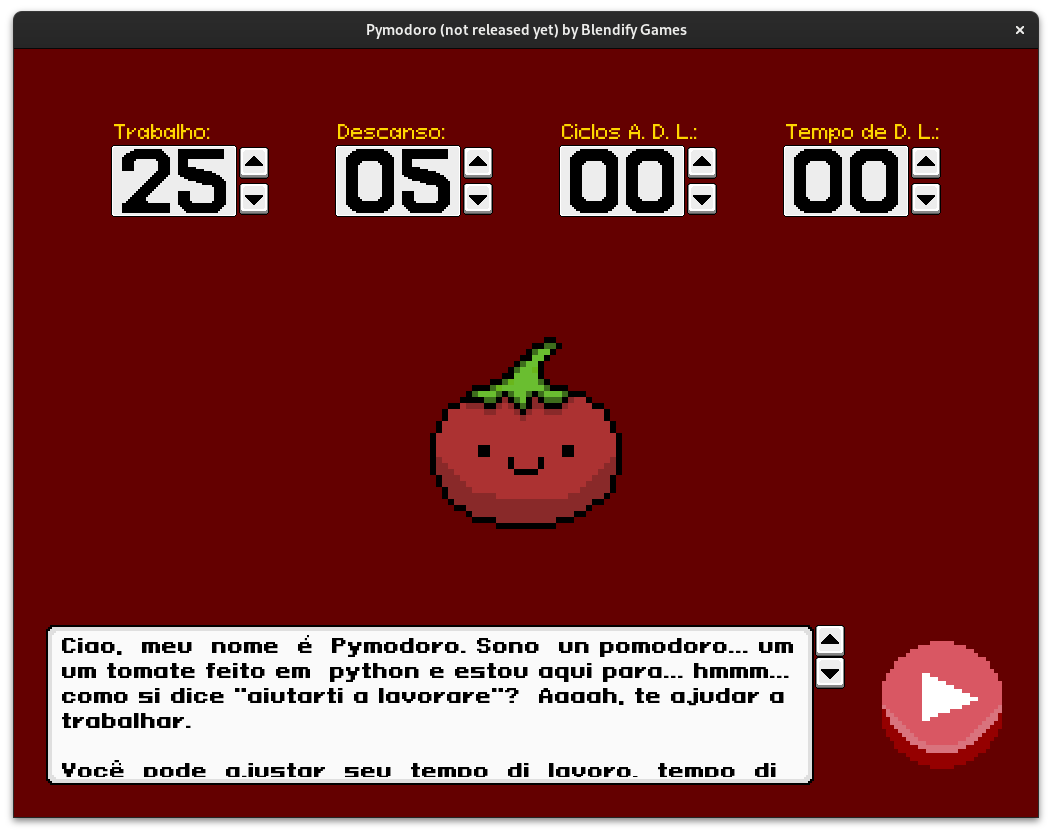
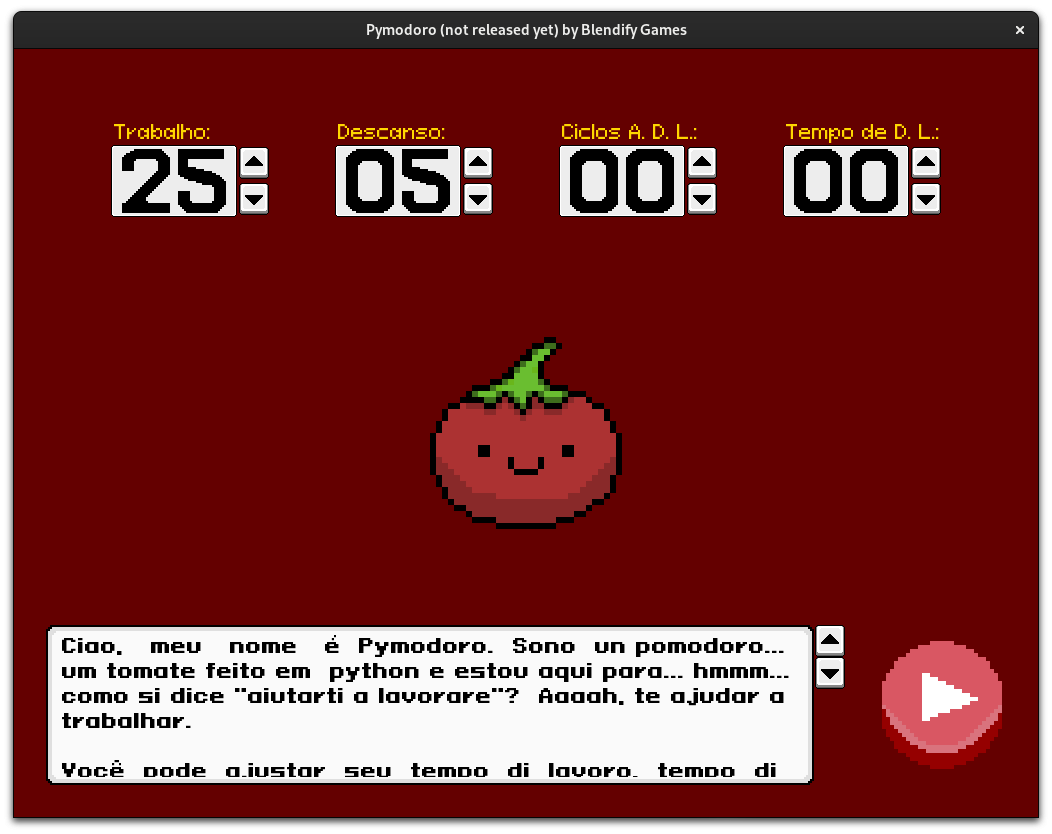
adding changelog, changing version to v1.0.1 and updating screenshots

Changed region(s): [[0.0, 0.0312, 1.0, 0.9976], [0.1217, 0.7482, 0.6084, 0.8106], [0.6388, 0.7482, 0.7605, 0.7794]]

diff --git a/src/config.py b/src/config.py
@@ -3,7 +3,7 @@ import json
 import os
 
 APP_NAME        = 'Pymodoro'
-APP_VERSION     = 'v1.0'
+APP_VERSION     = 'v1.0.1'
 APP_DEV         = 'Blendify Games'
 SCREEN_SIZE     = (1024, 768)
 

diff --git a/CHANGELOG.md b/CHANGELOG.md
@@ -1,0 +1,7 @@
+# Changelog
+
+## Mar 15, 2024 (v1.0.1):
+
+* Fixing initial text in portuguese removing the extra "um" at the beggining of the text.
+* Adding a "Back Button" on "Show Pomodoro Scene". By pressing this button the user can go back to change the Pomodoro setup but it loses the current pomodoro status. A simple go back button.
+* Updated the screenshots to contemplate the Back Button and text fixing.
